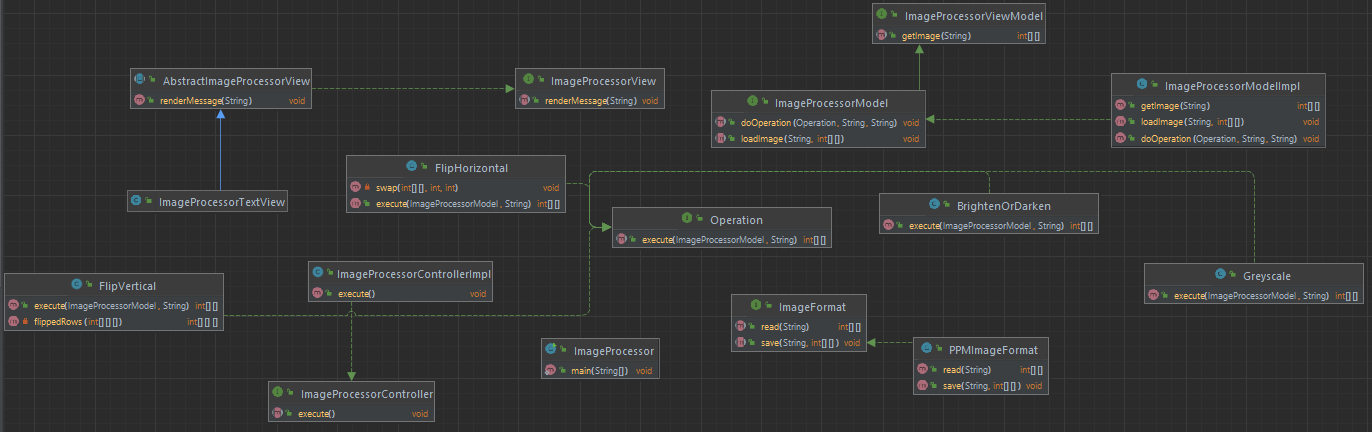
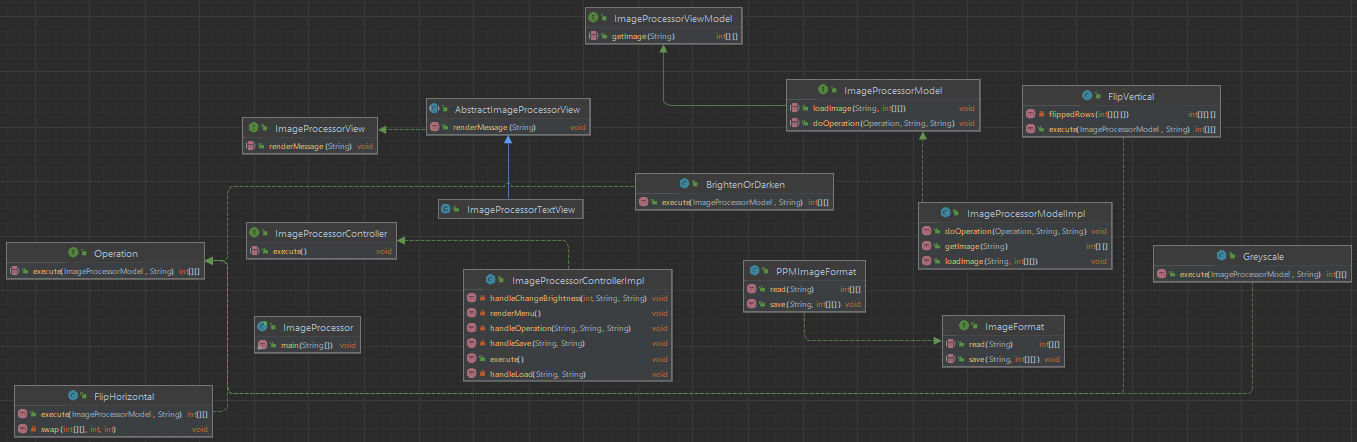
Refactored controller

diff --git a/src/controller/ImageProcessorControllerImpl.java b/src/controller/ImageProcessorControllerImpl.java
@@ -75,7 +75,6 @@ public class ImageProcessorControllerImpl implements ImageProcessorController {
     String strInput = "";
     Scanner scan = new Scanner(this.input);
 
-    try {
       while (!quit) {
         strInput = scan.next();
 
@@ -87,82 +86,51 @@ public class ImageProcessorControllerImpl implements ImageProcessorController {
         else if (strInput.equalsIgnoreCase("load")) {
           String dest = scan.next();
           String fileName = scan.next();
-          String fileFormat = dest.substring(dest.lastIndexOf('.') + 1);
-          try {
-            this.model.loadImage(fileName, this.formatDirectory.get(fileFormat).read(dest));
-            this.view.renderMessage("Image has been loaded\n");
-          } catch (IllegalArgumentException iae) { // file isn't found
-            this.view.renderMessage("File doesn't exist or type is not supported, "
-                    + "re-enter a valid command\n");
-          }
+          this.handleLoad(dest, fileName);
         }
-        // need to check if the user saves
+        // check if the user saves
         else if (strInput.equalsIgnoreCase("save")) {
-          try {
-            String imagePath = scan.next();
-            String imageName = scan.next();
-
-            String fileType = imagePath.substring(imagePath.lastIndexOf('.') + 1);
-            if (fileType.equals("ppm")) { // if it's to be saved as a ppm file
-              if (model.getImage(imageName) == null) { // then make the user reinput a valid command
-                this.view.renderMessage("Image doesn't exist, re-enter a valid command\n");
-              } else { // you are able to successfully save an image
-                new PPMImageFormat().save(imagePath, model.getImage(imageName));
-                //                this.model.saveImage(imagePath, imageName, new PPMImageFormat());
-                this.view.renderMessage("Image has been saved\n");
-              }
-
-            } else {
-              this.view.renderMessage("The file-type is not supported, re-input a valid command");
-            }
-          } catch (IllegalArgumentException iae) {
-            this.view.renderMessage("Something doesn't exist, re-enter a valid command\n");
-          }
+          String imagePath = scan.next();
+          String imageName = scan.next();
+          this.handleSave(imagePath, imageName);
         }
-
-        // need to check if a user calls on an operation
+        // check if a user calls on an operation
         else if (this.operationDirectory.get(strInput) != null) {
-          // need to deal with additional stuff if they are using change-brightness
-          // that takes in an additional parameter that is an integer
-
-          // need to deal with exception handling if it's not in the hashmap
           if (strInput.equals("change-brightness")) {
             int scale = 0;
             try {
               scale = Integer.parseInt(scan.next());
             } catch (NumberFormatException e) {
-              this.view.renderMessage("Please enter a valid integer\n");
-            }
-              String imageName = scan.next();
-              String newImageName = scan.next();
               try {
-                this.model.doOperation(new BrightenOrDarken(scale), imageName, newImageName);
-                this.view.renderMessage("Operation has been performed\n");
-              } catch (IllegalArgumentException ie) {
-                this.view.renderMessage("Image doesn't exist, re-enter a valid command\n");
+                this.view.renderMessage("Please enter a valid integer\n");
+              } catch (IOException io) {
+                throw new IllegalStateException("Failed to transmit to Appendable or read "
+                        + "from Readable");
               }
+            }
+
+            String imageName = scan.next();
+            String newImageName = scan.next();
+            this.handleChangeBrightness(scale, imageName, newImageName);
+
           } else { // it's an operation that doesn't take in an additional parameter
-            try {
-              String imageName = scan.next();
-              String newImageName = scan.next();
-              try {
-                // image does exist, so do the operation
-                this.model.doOperation(this.operationDirectory.get(strInput),
-                        imageName, newImageName);
-                this.view.renderMessage("Operation has been performed\n");
-              } catch (IllegalArgumentException ie) {
-                this.view.renderMessage("Image doesn't exist, re-enter a valid command\n");
-              }
-            } catch (IllegalArgumentException iae) {
-              this.view.renderMessage("Something doesn't exist, re-enter a valid command\n");
-            }
+            String imageName = scan.next();
+            String newImageName = scan.next();
+            this.handleOperation(strInput, imageName, newImageName);
           }
         } else { // the input was invalid, so the user has to reinput
-          this.view.renderMessage("Invalid input, re-enter a valid command\n");
+          try {
+            this.view.renderMessage("Invalid input, re-enter a valid command\n");
+          }
+          catch (IOException io) {
+            throw new IllegalStateException("Failed to transmit to Appendable or read "
+                    + "from Readable");
+          }
         }
       }
-      // assuming that the user has quit
-      this.view.renderMessage("Image Processor has quit.");
+      // The user has quit
+      try {
+        this.view.renderMessage("Image Processor has quit.");
     } catch (IOException io) {
       throw new IllegalStateException("Failed to transmit to Appendable or read from Readable");
     }
@@ -208,6 +176,97 @@ public class ImageProcessorControllerImpl implements ImageProcessorController {
     }
     catch (IOException e) {
       throw new IllegalStateException("Failed to transmit menu of commands to Appendable.");
+    }
+  }
+
+  /**
+   * Handle telling the model to load an image with the given file name and name to refer to it as
+   * in the program.
+   * @param dest the name to refer to the file as henceforth in the program
+   * @param fileName the name of the file we want to load
+   * @throws IllegalStateException if the view fails to write to its Appendable
+   */
+  private void handleLoad(String dest, String fileName) throws IllegalStateException {
+    String fileFormat = dest.substring(dest.lastIndexOf('.') + 1);
+
+    try {
+      this.model.loadImage(fileName, this.formatDirectory.get(fileFormat).read(dest));
+    }
+    catch (IllegalArgumentException e) {
+      try {
+        this.view.renderMessage("File doesn't exist or type is not supported, "
+                + "re-enter a valid command\n");
+      }
+      catch (IOException io) {
+        throw new IllegalStateException("Failed to write to Appendable.");
+      }
+    }
+    try {
+      this.view.renderMessage("Image has been loaded\n");
+    } catch (IOException e) { // file isn't found
+      throw new IllegalStateException("Failed to write to Appendable.");
+    }
+  }
+
+  /**
+   * Handle telling the ImageFormat to save the image with the given name to the given path.
+   * @param imagePath the path that the image is going to be saved to
+   * @param imageName the name of the image that is going to be saved
+   * @throws IllegalStateException if the view fails to write to its Appendable
+   */
+  private void handleSave(String imagePath, String imageName) throws IllegalStateException {
+    String fileType = imagePath.substring(imagePath.lastIndexOf('.') + 1);
+
+    ImageFormat fileFormat = this.formatDirectory.get(fileType);
+    if (fileFormat != null) {
+      try {
+        try {
+          fileFormat.save(imagePath, model.getImage(imageName));
+          this.view.renderMessage("Image has been saved\n");
+        } catch (IllegalArgumentException e) {
+          this.view.renderMessage("An image with the given name does not exist in the model " +
+                  "or the file path is invalid.\n");
+        }
+      } catch (IOException io) {
+        throw new IllegalStateException("Failed to write to Appendable");
+      }
+    }
+    else {
+      try {
+        this.view.renderMessage("The file-type is not supported, re-input a valid command");
+      }
+      catch (IOException e) {
+        throw new IllegalStateException("Failed to write to Appendable");
+      }
+    }
+  }
+
+  private void handleChangeBrightness(int scale, String imageName, String newImageName) {
+    try {
+      try {
+        this.model.doOperation(new BrightenOrDarken(scale), imageName, newImageName);
+        this.view.renderMessage("Operation has been performed\n");
+      } catch (IllegalArgumentException e) {
+        this.view.renderMessage("Image doesn't exist, re-enter a valid command\n");
+      }
+    } catch (IOException io) {
+      throw new IllegalStateException("Failed to write to Appendable");
+    }
+  }
+
+  private void handleOperation(String operation, String imageName, String newImageName)
+          throws IllegalStateException {
+    try {
+      try {
+        // image exists, so do the operation
+        this.model.doOperation(this.operationDirectory.get(operation),
+                imageName, newImageName);
+        this.view.renderMessage("Operation has been performed\n");
+      } catch (IllegalArgumentException e) {
+        this.view.renderMessage("Image doesn't exist, re-enter a valid command\n");
+      }
+    } catch (IOException e) {
+      throw new IllegalStateException("Failed to write to Appendable");
     }
   }
 }

diff --git a/test/ImageProcessorControllerImplTest.java b/test/ImageProcessorControllerImplTest.java
@@ -82,7 +82,7 @@ public class ImageProcessorControllerImplTest {
       // NOTE:
       // Running this test will cause a blank ppm file to be saved that has nothing in it
       // and trying to load this created file while using the image processor via the console
-      // will result in a NoSuchElement Exception, so do not load the file created from the test
+      // will result in a NoSuchElementException, so do not load the file created from the test
       Readable readable = new StringReader("save Bruh.ppm Bruh q"); // valid move
       Appendable appendable = new StringBuilder();
       StringBuilder log = new StringBuilder();
@@ -91,7 +91,7 @@ public class ImageProcessorControllerImplTest {
       ImageProcessorController controller =
               new ImageProcessorControllerImpl(mockModel, view, readable);
       controller.execute();
-      assertEquals("Name = Bruh\nName = Bruh\n", log.toString());
+      assertEquals("Name = Bruh\n", log.toString());
 
     } catch (IllegalStateException is) {
       fail("An exception was not supposed to be caught");
